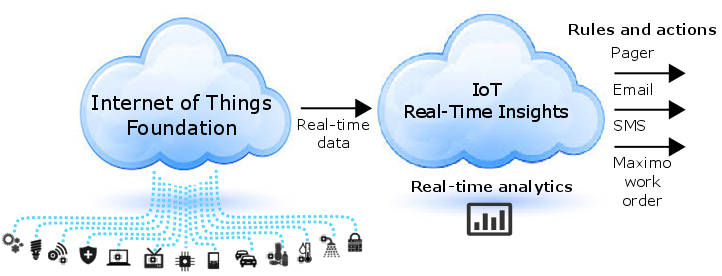
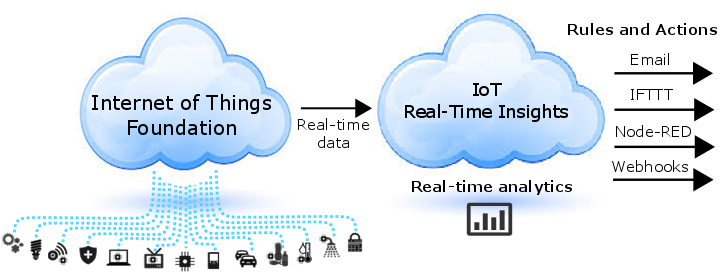
Updates for product refresh in IT 8

diff --git a/services/iotrtinsights/devices.md b/services/iotrtinsights/devices.md
@@ -20,9 +20,12 @@ Adding a new device is a two-step process. First, you add the device to IoT Foun
   3. Go to **Devices > Manage Schemas** and click **Add new message schema**.  
   4. Enter a name for the message schema, for example:  
   `New message schema`.
-  5. Click **Link new data source** and select the data source and device type that corresponds to your IoT Foundation instance and device. Optionally, enter an event name to collect data for that event only, or leave the `+` wild card to collect all events. More information about how to identify event types for your device is [here](#identify-datapoints "Identify datapoints.").
+  5. Click **Link new data source** and select the data source and device type that corresponds to your IoT Foundation instance and device. Optionally, enter an event name to collect data for that event only, or leave the `+` wild card to collect all events. More information about how to identify event types for your device is [here](#identify-datapoints "Identify datapoints.").  
+  >**Important:** Each message schema must have a unique combination of data source, device type, and event name. To create more than one schema for a specific data source and device type combination, specify a unique event name for each message schema instead of the default `+` wild card.   
   6. Add one or more data points that you want to include in the device dashboards.  
     You can select data points from a connected device, or add data points manually. The available data points are defined in the payload of the messages that are sent by a device. For information about the IoT Foundation payload format, see the [Message Payload](https://docs.internetofthings.ibmcloud.com/messaging/payload.html "Message Payload.") topic in the IoT Foundation documentation.   
+    > **Tip:** You can manually create virtual data points that modify or combine existing data points of the type integer or float. For example, if the data point ax consistently returns a value that is slightly too high, you can create a virtual data point ax_adj that adjusts the value of ax. You can then use the virtual ax_adj data point instead of the real-time ax data point in your dashboards and rules. Virtual data points are identified by a dashed underline.    
+
   <dl>
   <dt>Select from connected device</dt>
   <dd>
@@ -33,16 +36,20 @@ Adding a new device is a two-step process. First, you add the device to IoT Foun
   </ol>
   </dd>
   <dt>Add manually</dt>
+  <p><b>Tip:</b> To create a [nested data point structure](schemas.html), first add a data point with the data type Parent. In the data points table you can then click ![Add child icon.](images/add_child.png "Add child") to add one or more child data points.</p>
   <dd>
   <ol>
     <li>Click **Add manually**.</li>
+    <li>Select **Real-time data point** or **Virtual data point**</br>
+  </li>
     <li>Define the following data point information:
     <ul>  
     <li> Data point - The data point identifier that you [located in the IoT Foundation dashboard](#identify-datapoints "Identify datapoints."). For example:  
    `id`, `ts`, `lat`  </li>
    <li>Description - A short description of the data point. This description is used when displaying the data points in dashboards.</li>
+   <li>Virtual data point function - Add one or more components to define a valid function. You can use data points, numerical values, and mathematical operators such as +, -, \* to build your function. </li>
    <li>Data type - The type of data of the data point:  
-   `String`, `Integer`, or `Float`</li>
+   `String`, `Integer`, `Float`, or `Parent`.</li>
      <li>Sensor type - Optionally select how to interpret the data point in the dashboards. Depending on the type and sensor type combination, additional visualization options might be available for your dashboard widgets. For more information about sensor types and visualization options, see [Dashboard widgets](dashboards.html#dashboard-widget "Dashboard widgets").</li>
     <li>Data point icon - Optionally select an icon to represent the data point in the dashboard widgets.</li>
     <li>Min value/Max value - Optional, integer and Float only: If a max and min value is entered, device data can be displayed as a gauge in the dashboards.</li>
@@ -53,22 +60,23 @@ Adding a new device is a two-step process. First, you add the device to IoT Foun
      </ol>
     </dd>
   </dl>
-   8. Click ![Create icon.](images/create.png "Create icon") to create the message schema.
+   8. Click **OK** to create the message schema.
    9. Go to **Devices > Browse devices** and click your newly added device to verify that real-time device data is displayed and that the data points are correctly mapped.
 
 ## Identifying data points and events in the IoT Foundation dashboard. {: #identify-datapoints}
 The data points and event types for a device can be found in the IoT Foundation dashboard.
->**Tip:** If you are using the Internet of Things phone application as your IoT device, you can use the the sensorData event and the following data points to configure the message schema:
->- id - Device ID
->- ts - Timestamp
->- lat - Latitude
->- lng - Longitude
->- ax - X acceleration
->- ay - Y acceleration
->- az - Z acceleration
->- oa - Alpha movement
->- ob - Beta movement
->- og - Gamma movement
+>**Tip:** If you are using the Internet of Things phone application as your IoT device, you can use the sensorData event and the following data points to configure the message schema:
+>- d.id - Device ID
+>- d.ts - Timestamp
+>- d.lat - Latitude
+>- d.lng - Longitude
+>- d.ax - X acceleration
+>- d.ay - Y acceleration
+>- d.az - Z acceleration
+>- d.oa - Alpha movement
+>- d.ob - Beta movement
+>- d.og - Gamma movement  
+>Where d.*datapoint* indicates that the data point is nested under a parent type d data point in the message payload.
 
 1. From the Bluemix dashboard, click the Internet of Things tile.  
 >**Note:**  If you are using the Internet of Things phone application, click the the *iot-phone-iotf-service* tile.  

diff --git a/services/iotrtinsights/action_examples.md b/services/iotrtinsights/action_examples.md
@@ -1,0 +1,108 @@
+{:shortdesc: .shortdesc}
+
+# Action Examples
+
+The action types Send email, IFTTT, Node-RED, and webhooks open up a whole universe of options for executing tasks, only limited by your imagination and the connectors used by the other tools. For example, actions can be to post device status messages on Slack, send text messages to service personnel, create device service requests, and much more.
+{: shortdesc}
+
+The examples below all represent an action that notifies a service engineer when the temperature represented by the temp data point of a device exceeds 100 degrees, with a rule condition like this:
+`temp >= 100`
+
+Example by action type:  
+ - [Send email](#emailex "Send email")
+ - [Webhook](#webhookex "Webhook")
+ - [Node-RED](#noderedex "Node-RED")
+ - [IFTTT](#iftttex "IFTTT")
+
+## Send email {: #emailex}
+In this example, we configure the action to use the Real-Time Insights email feature to send an email to the main service engineer, with a backup email to his manager.
+
+To create the email action:
+1. In Real-Time Insights, go to **Analytics > Actions**.
+2. Click **Add new action**.
+3. Select the **Send Email** type.
+4. Enter the action name `Send service request email`.
+5. Enter the description `Send an email to the service engineer and his manager`.
+6. In the To field, enter `service.engineer@company.com`.
+7. In the CC field, enter: `service.manager@company.com`.
+8. In the subject line, enter: `Service required.`
+9. Select to prepend with "IoT Real-Time Insights alert" to clarify where the email comes from.
+10. To include the device data in the email, deselect **Do not include device data in the email message**.
+11. Click **OK** to save the action.  
+
+
+
+
+## Use webhook to post on Slack {: #webhookex}
+
+In this example, we configure the action to use a webhook to post a message to our #service-requests Slack channel.
+
+To create the post to slack action:
+1. In Slack, set up Incoming Webhooks integration for the channel #service-requests. Make a note of the webhooks URL. For more information, see the [Slack documentation](https://api.slack.com/incoming-webhooks).
+2. In Real-Time Insights, go to **Analytics > Actions** and create a new action with the following parameters:
+ - Type - **Webhook**
+ - Name - `Post service request on Slack`
+ - URL - `Your Slack webhooks URL`
+ - Method - **POST**
+11. Click **OK** to save the action.
+
+## Use Node-RED to send a text message {: #noderedex}
+
+In this example, we configure the action to use Node-RED with a Twilio node to send a text message to the service engineer.
+
+To create the send text message action:
+1. In Twilio, locate or create a new Messaging Service to use to send text messages from your Twilio account. For information, see the [Twilio documentation](https://www.twilio.com/help).
+1. In Bluemix, set up and access your Node-RED account with Node-RED URL `http://mynodered.mybluemix.net/red/`. More information [here](https://www.ng.bluemix.net/docs/starters/Node-RED/nodered.html).
+2. In Node-RED, create a simple two node flow such as:   [RTI-alert]->[SMS].  
+Where the first node is an http node, and the second a twilio node.
+ 1. Place the "http" input node and configure it with the following attributes:
+  <ul>
+  <li>Method - POST</li>
+  <li>URL - `RTI-alert`</li>
+  <li>Name - RTI Action</li>
+  </ul>
+  2. Place a "twilio" output node and configure the it with the following attributes:
+  <ul>
+  <li>Service - **External service**</li>
+  <li>Twilio - Add new twilio-api</li>
+  <li>SMS to - `Phone number for the service engineer`</li>
+  <li>Name - **SMS**</li>
+  </ul>
+3. In IoT Real-Time Insights, go to **Analytics > Actions** and create an action with the following parameters:
+ <ul>
+ <li>Type - **Node-RED**</li>
+ <li>Name - `Send text using Node-RED and Twilio`</li>
+ <li>Description - `Send a text message alert to the service engineer.`</li>
+ <li>URL - `http://mynodered.mybluemix.net/RTI-alert`</li>
+</ul>
+4. Click **OK** to save the action.
+
+## Use IFTTT to post a Trello card {: #iftttex}
+
+In this example, we configure the action to use IFTTT to post a card to a service requests list on Trello.
+
+To create the post a card on Trello action:
+1.	In IFTTT, connect to the Trello channel.
+2.	In IFTTT, connect to the Maker channel. Make a note of your key.
+5.	In IFTTT, create a recipe:
+ 1. Click **THIS**.
+ 2. Select the **Maker** channel.  
+ 2. Click **Recieve a web request**.
+ 3. Enter the event name `post-Trello-card`.
+ 4. Click **THAT**.
+ 5. Select the **Trello** channel.
+ 6. Select the Trello board in which to create the card.
+ 7. Enter a list name in which to add the cards.
+ 8. Edit the title and description as needed.
+ 9. Assign the @service.engineer and @service.manager members.
+ 8. Click **Create Action**.   
+3. In IoT Real-Time Insights, go to **Analytics > Actions** and create an action with the following parameters:
+<ul>
+<li>Type - **IFTTT**</li>
+<li>Name - `Post service request card`</li>
+<li>Description - `Use IFTTT to post a card in the service requests list in Trello.`</li>
+<li>Key - Your IFTTT key</li>
+<li>Event - `post-Trello-card`</li>
+<li>Optionally, add values for Value 1 thru 3. **Tip:** You can use [variable substitution](actions.html#variable_substitution) to dynamically include device data.</li>
+</ul>
+4. Click **OK** to save the action.

diff --git a/services/iotrtinsights/index.md b/services/iotrtinsights/index.md
@@ -10,7 +10,7 @@ IoT Real-Time Insights provides a real-time analytics engine and analytics autho
 
 IoT Real-Time Insights connects to the Bluemix Internet of Things (IoT Foundation) service for real-time device data feeds. The incoming data is interpreted through a virtual data model that can be augmented with asset master data from an asset management system, such as IBM Maximo&reg; Asset Management.
 
-In addition, user defined rules are applied to the real-time streaming data to identify conditions that need attention. The action engine lets you define automated responses to the detected conditions, such as sending a text message or email or creating a work order in Maximo Asset Management.  
+In addition, user defined rules are applied to the real-time streaming data to identify conditions that need attention. The action engine lets you define automated responses to the detected conditions, such as sending an email, triggering an IFTTT recipe, executing a Node-RED workflow, or using webhooks to connect to a wide variety of web services.  
 
 And finally, real-time data is also displayed in a configurable dashboard for an at-a-glance view of the location, data, metrics, and alerts for your IoT devices.
 
@@ -68,7 +68,7 @@ If you created a new IoT Foundation service, you must now create API keys to con
 4. Connect your IoT Foundation service and IoT Real-Time Insights service.
   1. From the Bluemix dashboard, click the IoT Real-Time Insights tile.  
   2. In the service page, click **Add a data source**.
-  2. In the IoT Real-Time Insights console Connect to Data Source page, click **Add New Data Source**.
+  2. In the IoT Real-Time Insights console Manage Data Sources page, click **Add New Data Source**.
   3. Give the data source a descriptive name and provide the following information that you collected earlier:
     - Organization ID
     - API Key
@@ -76,6 +76,7 @@ If you created a new IoT Foundation service, you must now create API keys to con
   4. Click ![Create icon.](images/create.png "Create icon") to create the data source and connect to it.
 4. Start using IoT Real-Time Insights.  
 You can now start using IoT Real-Time Insights by adding users, connecting your devices, configuring dashboards to view relevant device data, and setting up alerts.
+>**Selecting your Real-Time Insights instance:** If you have been granted access to any additional Real-Time Insights instances as an operator or administrator you can quickly switch between these instances. In the Real-Time Insights console, click your user name and select the instance that you want to access.  
 
 
 ># Related Links {:class="linklist"}

diff --git a/services/iotrtinsights/actions.md b/services/iotrtinsights/actions.md
@@ -16,7 +16,7 @@ Action types:
  - [Send email](#email "Send email")
  - [Webhook](#webhook "Webhook")
  - [Node-RED](#nodered "Node-RED")
- - [IFTTT](#IFTTT "IFTTT")
+ - [IFTTT](#ifttt "IFTTT")
 4. Click **OK** to create the new action.
 
 The action is now available in the [rules editor](rules.html#rules "Rules editor").
@@ -25,6 +25,8 @@ The action is now available in the [rules editor](rules.html#rules "Rules editor
 
 ## Send email {: #email}
 Use the send email action to send an email to one or more recipients when a rule is triggered.
+
+Example: [Send email](action_examples.html#emailex).
 
 The following parameters are used to configure the send email action:
 
@@ -43,6 +45,8 @@ The body of the email is automatically created from the message of the device at
 ## Webhook {: #webhook}
 Use the webhook action to make an HTTP request to a webhook-enabled web service when an alert is triggered. For example, a webhook could be used to open a service request for an asset if a sensor in the device reports an abnormal reading.
 
+Example: [Use webhook to post on Slack](action_examples.html#webhookex).
+
 The following parameters are used to configure a webhook action:
 
 Parameter | Description
@@ -58,7 +62,9 @@ Body | The body of the webhook call.  Available for the OPTIONS, PATCH, PUT, POS
 
 
 ## Node-RED {: #nodered}
-Use the Node-RED action to connect to a Node-RED application when a rule is triggered. For more information about using Node-RED, see [Creating apps with the Internet of Things starter application](https://www.ng.bluemix.net/docs/starters/IoT/iot500.html#iot500) on the IFTTT site.
+Use the Node-RED action to connect to a Node-RED application when a rule is triggered. For more information about using Node-RED, see [Creating apps with the Internet of Things starter application](https://www.ng.bluemix.net/docs/starters/IoT/iot500.html#iot500).
+
+Example: [Use Node-RED to send a text message](action_examples.html#noderedex).
 
 The following parameters are used to configure a Node-RED action:
 
@@ -70,6 +76,8 @@ URL | The URL of the target Node-RED HTTP input node.
 
 ## IFTTT {: #ifttt}
 Use the IFTTT action to trigger an IFTTT recipe when a rule is triggered. For more information about triggering Real-Time Insights actions as IFTTT recipes, see [Maker Channel](https://ifttt.com/maker) on the IFTTT site.
+
+Example: [Use IFTTT to post a Trello card](action_examples.html#iftttex).
 
 The following parameters are used to configure an IFTTT action:
 

diff --git a/services/iotrtinsights/schemas.md b/services/iotrtinsights/schemas.md
@@ -1,0 +1,41 @@
+{:shortdesc: .shortdesc}
+
+# Nested message schemas
+
+Real-Time Insights supports nested JSON message payloads that meet the IoT Foundation specification.   
+{: shortdesc}
+
+## Supported nested message payload format
+Nested data points can be used when creating rules, dashboards, and templates.
+
+>**Note:** Real-Time Insights does not support Custom JSON payloads. More information about the IoT Foundation message payload specification is in the [IoT Foundation documentation](https://docs.internetofthings.ibmcloud.com/messaging/payload.html).
+
+The following examples illustrate supported nested message formats:
+- Simple data  
+```
+{
+    "d":
+    {"msg": "Hello World"}  
+}
+```
+
+- Complex data
+```
+{
+    "d": {  
+      "host": "IBM700-R9E683D",  
+      "mem": 54.9,  
+      "network":
+      {  
+        "up": 1.22,  
+        "down": 0.55  
+      },  
+      "cpu": 1.3,  
+    }  
+}
+```  
+
+>**Important:** Nested JSON messages must contain the d element which is where you include all data for the event being transmitted in the message.
+- The element is required for your message to meet the IoT Foundation message specification.
+- The element must always be a JSON object (not an array)
+- In the case where you wish to send no data the d element should still be present, but contain an empty object.

diff --git a/services/iotrtinsights/dashboards.md b/services/iotrtinsights/dashboards.md
@@ -57,7 +57,7 @@ The following table summarizes the visualization options that are available to d
 
 Data point sensor type | Visualization options | Details | Supported data type
 ------------- | ------------- | -------------
-No selection | Plain value | - | Real/Integer/Float
+No selection | Plain value | - | String/Integer/Float
 Light on/off | Plain light indicator (on/off) | 0=off | Integer
 Switch on/off | Plain switch indicator (on/off) | 0=off | Integer
 Temperature sensor | Generic temperature gauge | N/A | Integer/Float
@@ -161,7 +161,7 @@ To modify a predefined template:
 2.	In the Manage Templates panel, find the template tile, and click ![Configure icon.](images/gear.png "Configure icon")** > Change layout** to open the template for editing.  
 3.	Add widgets to the template.
  1.	Click **Add new template component** to add an initial template widget.
- 2.	Select a component to add, then select further component attributes, and, if needed, select display properties.
+ 2.	Select a component to add, then select further component attributes, and, if needed, select display properties.  
  3.	Click ![Create icon.](images/create.png "Create icon") to add the widget to the template.
 4.	Edit existing widgets.
  1.	Hover over a template widget, and click ![Configure icon.](images/gear.png "Configure icon").

diff --git a/services/iotrtinsights/users.md b/services/iotrtinsights/users.md
@@ -26,3 +26,4 @@ To add a new user:
   3. Click **Add new user**.
   4. Enter the email address of the user you want to invite, select a role for the user, and click ![Create icon.](images/create.png "Create icon").  
 An email that contains the web console link is sent to the user. If the email address is already associated with an IBM ID, the user can log in and access the console directly. If not, the user is prompted to create a free IBM ID before accessing the console.  
+>**Selecting your Real-Time Insights instance:** Users that have access to multiple Real-Time Insights instances as operators or administrators can quickly switch between these instances. In the Real-Time Insights console, they can click their user name and select the instance that they want to access.  
